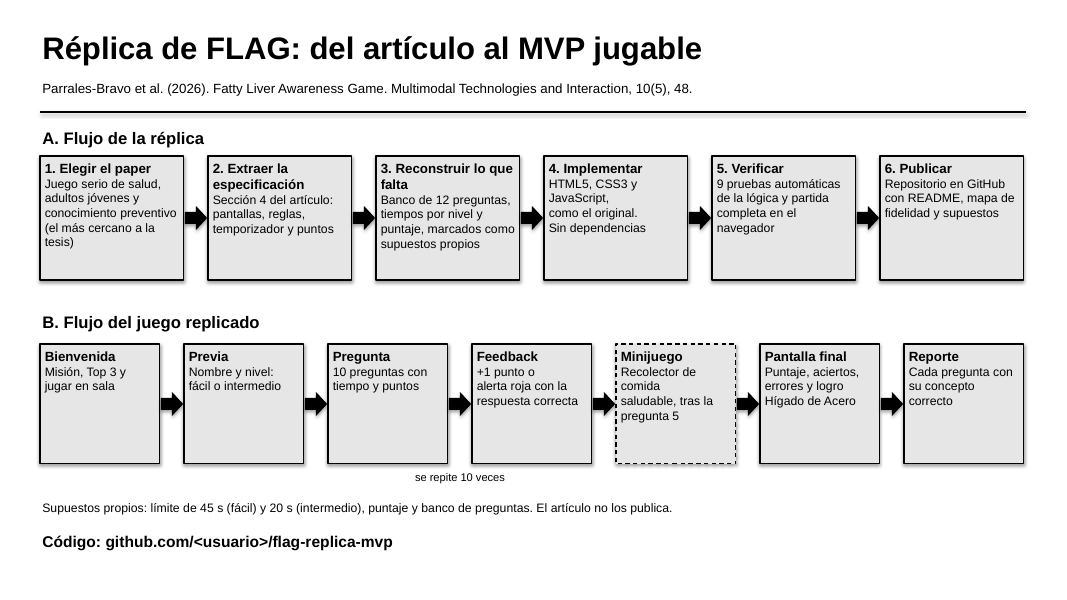
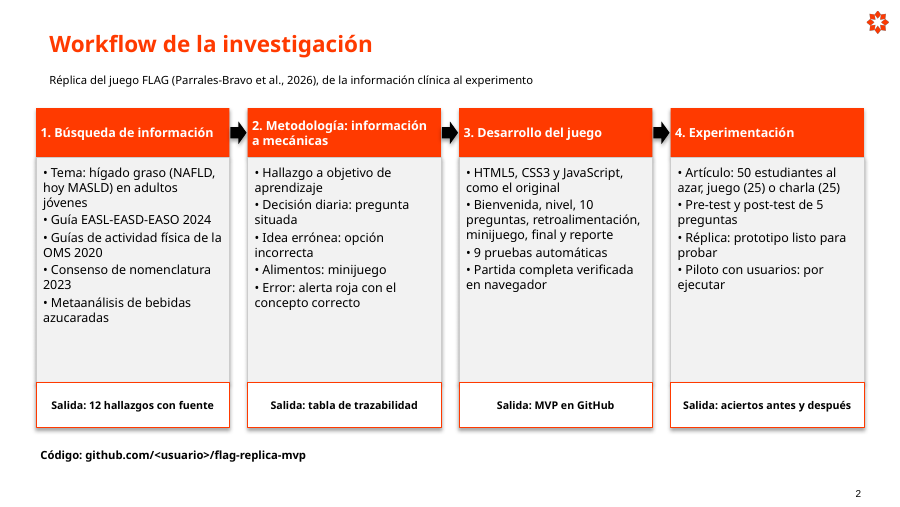
Evidencia clinica y trazabilidad de preguntas, capturas y workflow ampliado

Changed region(s): [[0.0311, 0.0592, 0.9644, 0.858], [0.0311, 0.8876, 0.3733, 0.9172], [0.9644, 0.0296, 0.9956, 0.0592]]

diff --git a/js/data.js b/js/data.js
@@ -22,7 +22,7 @@
       text: 'Tu médico quiere saber si el hígado está inflamado o dañado. ¿Qué examen de sangre se usa?',
       options: ['Hemograma completo', 'Pruebas de función hepática (transaminasas ALT y AST)', 'Prueba de tolerancia a la lactosa', 'Examen de orina de rutina'],
       correct: 1,
-      concept: 'Las transaminasas ALT y AST forman parte de las pruebas de función hepática y suben cuando hay daño en las células del hígado.'
+      concept: 'Las transaminasas ALT y AST forman parte de las pruebas de función hepática y suelen subir cuando hay daño en las células del hígado. Un valor normal no descarta la enfermedad.'
     },
     {
       id: 'Q03', room: 'Alimentación', source: 'reconstruida',
@@ -43,14 +43,14 @@
       text: '¿Qué significa la sigla NAFLD o EHGNA?',
       options: ['Infección viral del hígado', 'Enfermedad del hígado graso no alcohólico', 'Inflamación de la vesícula', 'Falta de enzimas digestivas'],
       correct: 1,
-      concept: 'Es la acumulación de grasa en el hígado en personas que no consumen alcohol en exceso.'
+      concept: 'Es la acumulación de grasa en el hígado en personas que no consumen alcohol en exceso. Desde 2023 el término de consenso es MASLD (enfermedad hepática esteatósica asociada a disfunción metabólica).'
     },
     {
       id: 'Q06', room: 'Actividad física', source: 'reconstruida',
       text: 'Pasas 8 horas sentado programando. ¿Qué pequeño hábito ayuda más?',
       options: ['Quedarte sentado hasta terminar el trabajo', 'Levantarte y moverte unos minutos cada hora', 'Saltarte el almuerzo', 'Beber solo bebidas energéticas'],
       correct: 1,
-      concept: 'Interrumpir el tiempo sentado con pausas activas cortas ayuda al control de la glucosa y reduce el riesgo metabólico.'
+      concept: 'Interrumpir el tiempo sentado con pausas activas cortas ayuda al control de la glucosa y reduce el riesgo metabólico. La OMS aconseja limitar el tiempo sedentario y reemplazarlo por actividad de cualquier intensidad.'
     },
     {
       id: 'Q07', room: 'Alimentación', source: 'reconstruida',
@@ -78,14 +78,14 @@
       text: 'Según la OMS, ¿cuánta actividad física semanal se recomienda a un adulto?',
       options: ['Unos 30 minutos en total', 'Al menos 150 minutos de actividad de intensidad moderada', 'Solo los fines de semana, 2 horas', 'No hay ninguna recomendación'],
       correct: 1,
-      concept: 'La OMS recomienda entre 150 y 300 minutos semanales de actividad aeróbica moderada para adultos.'
+      concept: 'La OMS recomienda para adultos entre 150 y 300 minutos semanales de actividad aeróbica de intensidad moderada, o su equivalente vigorosa.'
     },
     {
       id: 'Q11', room: 'General', source: 'reconstruida',
       text: 'Una persona con hígado graso en etapa temprana mejora su dieta y hace ejercicio. ¿Qué puede pasar?',
       options: ['La grasa del hígado puede disminuir', 'El hígado se daña más rápido', 'No cambia nada, es irreversible', 'Aparece diabetes de inmediato'],
       correct: 0,
-      concept: 'En etapas tempranas la acumulación de grasa puede reducirse con cambios de dieta y actividad física.'
+      concept: 'En etapas tempranas la grasa del hígado puede reducirse con dieta y actividad física. Perder cerca del 5 % del peso ya ayuda a reducirla.'
     },
     {
       id: 'Q12', room: 'General', source: 'reconstruida',

diff --git a/docs/evidencia_y_mecanicas.md b/docs/evidencia_y_mecanicas.md
@@ -1,0 +1,52 @@
+# Del conocimiento sobre hígado graso a las mecánicas del juego
+
+Este documento explica cómo se pasó de la información clínica a las mecánicas de la réplica de FLAG. Las preguntas reconstruidas son propias y no tienen validación de expertos. Aquí se deja a qué fuente se puede rastrear cada una.
+
+## Método en cuatro pasos
+
+1. **Buscar y fijar fuentes.** Se buscaron guías clínicas y revisiones sistemáticas sobre hígado graso. Solo se usaron fuentes cuyo texto se abrió (resumen o texto completo en el sitio de la revista, PubMed o PMC).
+2. **Extraer hallazgos atómicos.** Cada hallazgo es una afirmación corta con su fuente. Ejemplo: "Perder cerca del 5 % del peso reduce la grasa del hígado".
+3. **Elegir la mecánica según el tipo de hallazgo.** Se siguió el diseño que describe FLAG en su sección 4.
+
+   | Tipo de hallazgo | Mecánica | Por qué |
+   |---|---|---|
+   | Decisión cotidiana (ejercicio, pausas, merienda) | Pregunta situada con un estudiante de software como protagonista | Identificación con el jugador (artículo, 4.3) |
+   | Idea errónea frecuente | Distractor que representa la idea errónea | Cada opción incorrecta enseña algo (artículo, 4.3) |
+   | Elección de alimentos | Minijuego recolector de comida | Cambio de modalidad para reducir fatiga (artículo, 4.5) |
+   | Corrección de un error | Pantalla "Alerta roja" con respuesta y concepto correcto | El error se reencuadra como parte de la misión (artículo, 4.4) |
+   | Motivación | Puntos, ranking local y logro | Progreso visible (artículo, 4.1 y 4.6) |
+4. **Trazar y revisar.** La tabla de abajo enlaza cada pregunta con su hallazgo y su fuente. Lo que no se pudo verificar queda marcado.
+
+## Fuentes abiertas y leídas
+
+| Código | Fuente |
+|---|---|
+| F1 | Consenso Delphi multisociedad sobre la nueva nomenclatura de la enfermedad del hígado graso (NAFLD pasa a MASLD). Journal of Hepatology, 2023. https://www.journal-of-hepatology.eu/article/S0168-8278%2823%2900418-X/fulltext/ |
+| F2 | EASL-EASD-EASO. Clinical Practice Guidelines on the management of MASLD. Journal of Hepatology 2024, 81(1), 1-51. PMID 38852583. https://pubmed.ncbi.nlm.nih.gov/38852583/ |
+| F3 | Organización Mundial de la Salud. 2020 guidelines on physical activity and sedentary behaviour. British Journal of Sports Medicine 2020, 54(24), 1451. https://pmc.ncbi.nlm.nih.gov/articles/PMC7719906 |
+| F4 | Consumption of Sugar-Sweetened Beverages Has a Dose-Dependent Effect on the Risk of Non-Alcoholic Fatty Liver Disease. Int J Environ Res Public Health 2019, 16(12), 2192. doi 10.3390/ijerph16122192. RR agrupado 1,39 (IC 95 %: 1,29 a 1,50) |
+| F5 | AASLD. Steatotic-What? Changes in Fatty Liver Nomenclature (Liver Fellow Network, clinical pearls). https://www.aasld.org/liver-fellow-network/core-series/clinical-pearls/steatotic-what-changes-fatty-liver-nomenclature |
+| F6 | Parrales-Bravo et al. (2026). FLAG. Multimodal Technologies and Interaction, 10(5), 48. doi 10.3390/mti10050048 (diseño del juego, sección 4) |
+
+## Trazabilidad de las preguntas
+
+| Pregunta | Hallazgo | Fuente | Estado |
+|---|---|---|---|
+| Q01 caminata de 30 min | La actividad física reduce la esteatosis. Se recomienda más de 150 min semanales de intensidad moderada | F2, F6 (enunciado publicado) | Verificada |
+| Q02 transaminasas | Las transaminasas elevadas son típicas, pero un valor normal no descarta la enfermedad | F5 | Verificada |
+| Q03 bebida azucarada | Quien consume bebidas azucaradas tiene mayor riesgo, con efecto según la dosis | F4 | Verificada |
+| Q04 pocos síntomas | La mayoría de los pacientes no tiene síntomas | F5 | Verificada |
+| Q05 sigla NAFLD | NAFLD pasó a llamarse MASLD en 2023 | F1, F5 | Verificada |
+| Q06 pausas activas | Reemplazar el tiempo sedentario por actividad de cualquier intensidad da beneficios | F3 | Verificada |
+| Q07 merienda | Una revisión de ensayos controlados halla efecto dañino en bebidas azucaradas con exceso de energía y no en otras fuentes como la fruta | Resumen de congreso en Curr Dev Nutr 2021 (PMC8180952) | Indirecta, resumen de congreso |
+| Q08 resistencia a la insulina | La definición de MASLD exige esteatosis más al menos un factor cardiometabólico | F1 | Verificada |
+| Q09 alcohol | Hay una categoría aparte (MetALD) para quien suma alcohol por encima del umbral | F1 | Parcial. La frase "daña directamente" no se verificó |
+| Q10 150 a 300 min | Adultos: 150 a 300 min de actividad moderada por semana o su equivalente vigorosa | F3 | Verificada |
+| Q11 reversibilidad | La actividad física reduce la esteatosis y una pérdida de cerca del 5 % del peso reduce la grasa del hígado | F2 | Verificada |
+| Q12 cirrosis | La progresión a fibrosis y cirrosis | Sin fuente abierta en esta sesión | Pendiente de fuente |
+
+## Límites
+
+- La nomenclatura clínica actual es MASLD. El juego conserva "NAFLD" porque así lo usa FLAG y lo aclara en la pregunta Q05.
+- Las preguntas Q07, Q09 y Q12 deben revisarse con una fuente antes de usarlas en un experimento.
+- Este contenido es educativo y no sustituye consejo médico.

diff --git a/README.md b/README.md
@@ -65,5 +65,5 @@ js/logic.js       lógica pura (probada con Node)
 js/data.js        banco de preguntas
 js/app.js         interfaz, temporizador y minijuego
 test/             pruebas
-docs/             diapositiva del workflow (PNG)
+docs/             workflow (PNG), capturas del juego y evidencia_y_mecanicas.md (fuentes y trazabilidad)
 ```
